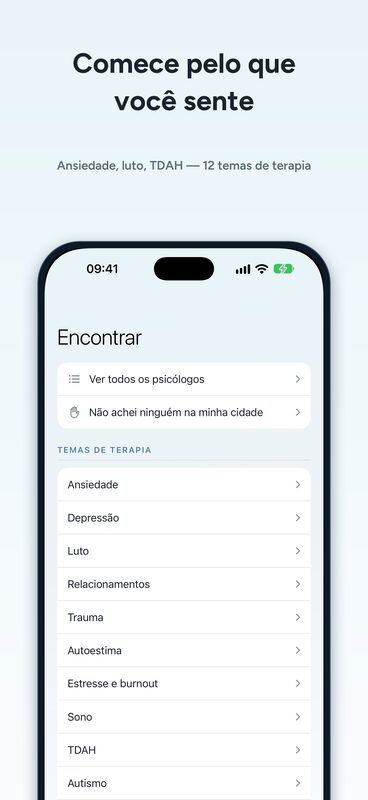
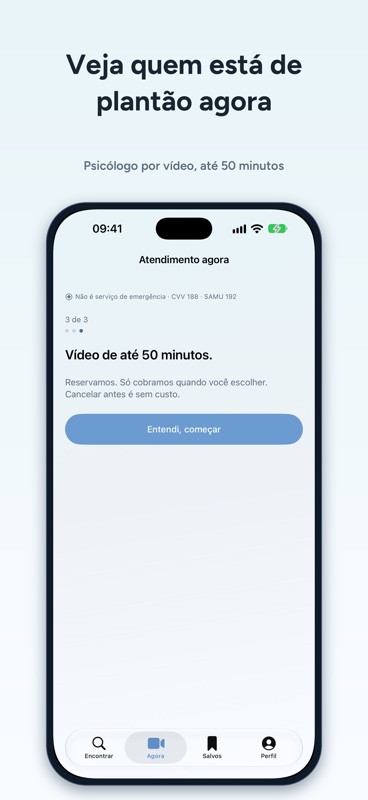
hub: prints novos (IAURA Agora, LashFlow Pago no estúdio), nota do beta do LashFlow e spec 001 do formulário versionada

diff --git a/index.html b/index.html
@@ -341,7 +341,7 @@ footer{padding:48px 0 56px;border-top:1px solid var(--border);background:var(--b
           </div>
           <div class="col-r">
             <div class="shots">
-              <img src="assets/apps/iaura-1.jpg?v=20261017" alt="Tela do app IAURA" loading="lazy" onerror="this.remove()">
+              <img src="assets/apps/iaura-1.jpg?v=20261023" alt="Atendimento Agora no app IAURA" loading="lazy" onerror="this.remove()">
               <img src="assets/apps/iaura-2.jpg?v=20261017" alt="Segunda tela do app IAURA" loading="lazy" onerror="this.remove()">
               <img src="assets/apps/iaura-3.jpg?v=20261017" alt="Terceira tela do app IAURA" loading="lazy" onerror="this.remove()">
             </div>
@@ -419,7 +419,7 @@ footer{padding:48px 0 56px;border-top:1px solid var(--border);background:var(--b
           </ol>
           <div class="shots">
             <img src="assets/apps/lashflow-1.webp?v=20261017" alt="Tela do app LashFlow" loading="lazy" onerror="this.remove()">
-            <img src="assets/apps/lashflow-2.webp?v=20261017" alt="Segunda tela do app LashFlow" loading="lazy" onerror="this.remove()">
+            <img src="assets/apps/lashflow-2.jpg?v=20261023" alt="Marca Pago no estúdio no app LashFlow" loading="lazy" onerror="this.remove()">
             <img src="assets/apps/lashflow-3.webp?v=20261017" alt="Terceira tela do app LashFlow" loading="lazy" onerror="this.remove()">
           </div>
           <div class="links">
@@ -786,7 +786,7 @@ footer{padding:48px 0 56px;border-top:1px solid var(--border);background:var(--b
     { id: "blindado", name: "Blindado", icon: "assets/apps/blindado-icon.png", open: true, platforms: ["iphone", "android"],
       testflight: "https://testflight.apple.com/join/Evt1DGrb", note: "iPhone, iPad, Mac e Android" },
     { id: "lashflow", name: "LashFlow", icon: "assets/apps/lashflow-icon.png", open: true, platforms: ["iphone"],
-      testflight: "https://testflight.apple.com/join/G9wFGhkK", note: "iPhone (Android em breve)" },
+      testflight: "https://testflight.apple.com/join/G9wFGhkK", note: "iPhone (Android em teste fechado)" },
     { id: "estacione", name: "Estacione Fácil", icon: "assets/apps/estacione-icon.png", open: true, platforms: ["iphone", "android"],
       testflight: null, note: "iPhone e Android" },
     { id: "movase", name: "Movase", icon: "assets/apps/movase-icon.png", open: false, platforms: [], note: "já está nas lojas" },

diff --git a/specs/001-formulario-beta-unico/spec.md b/specs/001-formulario-beta-unico/spec.md
@@ -1,0 +1,154 @@
+# Feature Specification: Formulário único de beta no hub
+
+**Feature Branch**: `001-formulario-beta-unico`
+
+**Created**: 2026-10-17
+
+**Status**: Implementada
+
+**Handoff**: Fase 1 implementada em `index.html` (D1 a D6 aprovadas em 2026-10-17); Forms central criado e `REAL` preenchido no script do `#beta` (conferido em 2026-10-23)
+
+**Input**: pedido do dono em 2026-10-17: centralizar num único formulário do site a captação de leads para os testes beta dos apps, aproveitando o que já existe nos projetos. Levantamento feito com o graphify nos grafos de `lashflow`, `movase`, `blindado` e `iaura`, confirmado lendo os arquivos citados.
+
+## O que já existe hoje (achados do levantamento)
+
+| Projeto | Como capta beta hoje | Onde está | Destino do lead |
+|---|---|---|---|
+| LashFlow | Google Forms "LashFlow — Beta" enviado pelo próprio site (`POST` no `formResponse`), com e-mail, plataforma e consentimento; depois mostra o link do TestFlight | `lashflow/site/src/config/beta.ts`, `site/src/app/baixar/page.tsx`, componente `BetaForm` | Planilha do Forms no Drive do dono, guarda por 90 dias |
+| Movase | Android: "Entrar com o Google" na página, que cadastra o e-mail num Google Group da lista de testadores da Play (`POST /api/android/testers`). Mecanismo temporário, só enquanto o Android estiver em teste fechado | `movase/specs/187-site-landing-blog/contracts/android-tester-enrollment.md` | Google Group; nada no Supabase |
+| Blindado | Pessoa comenta "BETA" num post do Instagram; o dono lista os comentários (`listar_interessados.py`) e manda o link do TestFlight por DM manual | `blindado/scripts/instagram/README.md` | `marketing/leads.csv` local, fora do git |
+| IAURA | Nenhum formulário de beta: os dois apps estão em produção | — | — |
+| Estacione Fácil | Nenhum formulário: iOS build 3 e Android em teste interno na Play, sem link público | — | — |
+
+No hub (`index.html`) os links de beta apontam direto para o TestFlight do Blindado e do LashFlow, sem captar nada. Quem entra não deixa contato.
+
+## Decisão de arquitetura (proposta)
+
+O hub é estático (GitHub Pages), sem servidor. Então o formulário único **reaproveita o padrão que já funciona no LashFlow**: um Google Forms novo e central, enviado por `fetch` com `mode: "no-cors"` para a URL `formResponse`, com link de reserva para `viewform` quando o JavaScript falhar. Todas as respostas caem numa planilha só, com a coluna **app**. Não entra servidor, banco nem chave de API.
+
+Motivos: custo zero, o dono já opera esse fluxo, e o LashFlow já passou pela revisão de texto de privacidade com o advogado.
+
+## User Scenarios & Testing *(mandatory)*
+
+### User Story 1 - Pedir acesso ao beta de um app (Priority: P1)
+
+A pessoa chega ao hub, toca em "Entrar no beta" no cartão de um app (ou na seção do formulário), escolhe o app, a plataforma, informa o e-mail, aceita o uso do e-mail e envia.
+
+**Why this priority**: sem isso não existe lead nem lista de testadores. É o motivo da feature.
+
+**Independent Test**: abrir o hub, enviar o formulário com um e-mail de teste e ver a linha nova na planilha com app, plataforma, e-mail, consentimento e data.
+
+**Acceptance Scenarios**:
+
+1. **Given** o hub aberto, **When** a pessoa toca "Entrar no beta" no cartão do Blindado, **Then** a página rola até o formulário com o app Blindado já marcado.
+2. **Given** o formulário preenchido e válido, **When** ela envia, **Then** vê a confirmação na própria página e a linha chega na planilha.
+3. **Given** iPhone escolhido num app com TestFlight público, **When** o envio termina, **Then** a confirmação mostra o botão do TestFlight daquele app.
+4. **Given** Android escolhido, **When** o envio termina, **Then** a confirmação diz que o convite chega por e-mail em até alguns dias e não mostra link que ainda não existe.
+5. **Given** o consentimento desmarcado ou e-mail inválido, **When** ela tenta enviar, **Then** o envio é bloqueado com a mensagem no campo, sem chamar o Forms.
+
+---
+
+### User Story 2 - Escolher mais de um app de uma vez (Priority: P2)
+
+A pessoa marca dois ou mais apps no mesmo envio.
+
+**Why this priority**: evita repetir o formulário, mas o beta funciona sem isso.
+
+**Independent Test**: marcar Blindado e LashFlow, enviar e ver **uma linha por app** na planilha.
+
+**Acceptance Scenarios**:
+
+1. **Given** dois apps marcados, **When** envia, **Then** o site faz um envio por app e a confirmação lista os dois, cada um com o seu passo seguinte.
+
+---
+
+### User Story 3 - O dono lê os leads sem tratar nada à mão (Priority: P2)
+
+O dono abre a planilha, filtra por app e plataforma e vê quem pediu, quando e com qual consentimento. Pode apagar tudo depois do prazo de guarda.
+
+**Why this priority**: o dono não quer conversar com ninguém (restrição de 2026-10-09). O fluxo tem que ser só planilha e convite.
+
+**Independent Test**: filtrar a planilha por "Android + Estacione Fácil" e obter a lista de e-mails para colar na lista de testadores da Play.
+
+**Acceptance Scenarios**:
+
+1. **Given** respostas de vários apps, **When** o dono filtra por app, **Then** vê só os leads daquele app, com carimbo de data.
+2. **Given** uma pessoa pedindo exclusão por e-mail, **When** o dono apaga a linha, **Then** nenhum outro lugar do site guarda o dado.
+
+---
+
+### User Story 4 - Link direto de outros canais (Priority: P3)
+
+Posts do Instagram e os sites dos apps apontam para `…github.io/?app=blindado#beta` e o formulário abre já no app certo.
+
+**Why this priority**: troca o "comente BETA" do Blindado por um link que capta o e-mail sozinho, mas é um ganho depois do formulário existir.
+
+**Independent Test**: abrir `?app=lashflow#beta` e ver LashFlow marcado.
+
+**Acceptance Scenarios**:
+
+1. **Given** `?app=` com um app válido e aberto, **When** a página carrega, **Then** só esse app vem marcado.
+2. **Given** `?app=` desconhecido ou fechado, **When** a página carrega, **Then** nenhum app vem marcado e não aparece erro.
+
+### Edge Cases
+
+- App com beta **fechado** (por exemplo Movase hoje): aparece na lista como "beta fechado" e não dá para marcar.
+- O Forms fora do ar ou bloqueado por extensão: o `fetch` em `no-cors` não devolve erro útil. A confirmação sempre mostra também o link `viewform` como "se não chegou, envie por aqui".
+- Envio duplicado do mesmo e-mail e app: aceito (o Forms não deduplica); o dono deduplica na planilha. Botão desativa depois do toque para evitar clique duplo.
+- Navegador embutido do Instagram: o hub já tira o visitante de lá; o formulário não pode depender disso.
+- `prefers-reduced-motion` e teclado: o formulário não depende de animação nem de mouse.
+- Robôs: Google Forms não tem captcha. Defesa mínima por campo isca (honeypot) e tempo mínimo de preenchimento; limite real é o do próprio Google.
+
+## Requirements *(mandatory)*
+
+### Functional Requirements
+
+- **FR-001**: O hub MUST ter uma seção `#beta` com **um único** formulário para todos os apps em teste.
+- **FR-002**: O formulário MUST pedir: app (um ou mais), plataforma (iPhone ou Android), e-mail e consentimento. Nenhum outro dado pessoal (sem nome, sem telefone).
+- **FR-003**: Para Android o e-mail MUST ser o da conta Google usada na Play, e o campo MUST dizer isso.
+- **FR-004**: A lista de apps e o estado de cada um (aberto ou fechado, link do TestFlight, link de opt-in da Play) MUST ficar num único objeto de configuração, no padrão de `beta.ts` do LashFlow. Adicionar ou fechar um app é editar só esse objeto.
+- **FR-005**: O envio MUST ir para o Google Forms central por `POST` em `formResponse` (um por app marcado) e MUST ter o link `viewform` como alternativa sem JavaScript.
+- **FR-006**: A configuração MUST impedir publicar com valor faltando: se o beta estiver aberto e algum campo obrigatório da configuração for nulo, o formulário não é exibido (e um teste local acusa), como o `assertBetaConfig` do LashFlow.
+- **FR-007**: Os cartões do hub que hoje têm "Beta iPhone" direto no TestFlight (Blindado, LashFlow) MUST passar a ter "Entrar no beta", que leva ao formulário já com o app marcado. O link do TestFlight só aparece depois do envio.
+- **FR-008**: O formulário MUST aceitar `?app=<id>` para pré-seleção (User Story 4).
+- **FR-009**: A seção MUST trazer o aviso de privacidade em linguagem simples: o que é guardado (e-mail, app, plataforma, data), para quê (convite ao beta), por quanto tempo (90 dias após o fim do beta daquele app), quem é o controlador e o e-mail do titular (`guilherme.avieiras@gmail.com`).
+- **FR-010**: O consentimento MUST ser uma caixa não marcada por padrão, com o texto exato repetido como opção no Forms.
+- **FR-011**: O formulário MUST funcionar a 375 px, ter rótulos ligados aos campos, foco visível e mensagens de erro lidas por leitor de tela, com contraste AA.
+- **FR-012**: Os formulários e canais que já existem MUST continuar funcionando até a migração de cada um (ver Fases). Nada do LashFlow, Movase ou Blindado é desligado por esta spec.
+
+### Key Entities
+
+- **App em beta**: id, nome, plataformas com beta aberto, link público do TestFlight (opcional), link de opt-in da Play (opcional), aberto ou fechado.
+- **Pedido de beta**: app, plataforma, e-mail, consentimento, carimbo de data (do Forms). Uma linha por app.
+
+## Fases propostas
+
+1. **Fase 1 (esta spec, P1 a P3)**: Forms central, seção `#beta` no hub, cartões apontando para ela, aviso de privacidade.
+2. **Fase 2 (fora desta spec)**: LashFlow `/baixar` passa a levar ao hub com `?app=lashflow` e o Forms antigo é arquivado depois de exportar a planilha. Posts do Blindado trocam "comente BETA" pelo link com `?app=blindado`. É mudança em outros repositórios, com spec própria em cada um.
+3. **Fase 3 (opcional)**: automatizar o cadastro de testadores Android num Google Group por Apps Script, no mesmo desenho do Movase (spec 187), para que o convite da Play saia sem trabalho manual.
+
+## Decisões para o dono
+
+- **D1 — Onde guardar**: (a) Google Forms novo e central (recomendado: padrão já usado e aprovado no LashFlow, custo zero); (b) reaproveitar o Forms do LashFlow adicionando a pergunta "app" (mistura os leads e mexe no que já está no ar); (c) serviço de terceiros de formulários (mais um fornecedor e mais uma política de privacidade).
+- **D2 — Apps na primeira versão**: recomendado **Blindado, LashFlow e Estacione Fácil** abertos; **Movase** e **IAURA** aparecem como "em produção, baixe nas lojas" e não entram na lista.
+- **D3 — Android**: convite manual a partir da planilha (recomendado para começar) ou automação por Google Group na Fase 3.
+- **D4 — Prazo de guarda e texto de privacidade**: manter os 90 dias do LashFlow e o mesmo texto aprovado pelo advogado, adaptado a vários apps. Se o texto mudar além disso, pedir nova aprovação.
+- **D5 — Criação do Forms**: a conta e o Forms são do dono. O Forms é criado no navegador com a conta dele e o dono confirma antes de eu ligar o envio. Eu não crio conta nem credenciais por ele.
+- **D6 — Chamada para ação no hub**: botão "Entrar no beta" em cada cartão elegível, mais um bloco `#beta` entre os projetos e "Eu construo pra você".
+
+## Success Criteria *(mandatory)*
+
+- **SC-001**: Em 100% dos testes, um envio válido gera exatamente uma linha por app marcado na planilha, com os 4 campos preenchidos.
+- **SC-002**: Nenhum cartão do hub leva ao TestFlight sem passar pelo formulário.
+- **SC-003**: O formulário passa em largura de 375 px sem rolagem horizontal e navega inteiro por teclado.
+- **SC-004**: Com a configuração incompleta, a seção não aparece e o teste local acusa o que falta; o hub não quebra.
+- **SC-005**: O dono extrai a lista de e-mails Android de um app em até dois cliques de filtro na planilha.
+- **SC-006**: Medida depois de 30 dias: leads por app por semana, lidos da planilha. A decisão de manter, mudar ou fechar cada beta usa esse número.
+
+## Assumptions
+
+- O dono topa criar o Forms central (D5) e usar a mesma conta Google do Forms do LashFlow.
+- O link público do TestFlight do Estacione Fácil ainda não existe. Sem ele, o iPhone desse app mostra "o convite chega por e-mail" como o Android.
+- A Play exige e-mail de conta Google na lista de testadores, por isso FR-003.
+- Esta spec não importa leads antigos: o CSV do Blindado fica fora do git porque tem @ de pessoas reais, e continua assim.
+- Este repositório é público e o GitHub Pages serve tudo o que está nele. Esta pasta `specs/` só deve ser commitada se o dono aceitar que ela fique pública, ou depois de excluída da publicação.
